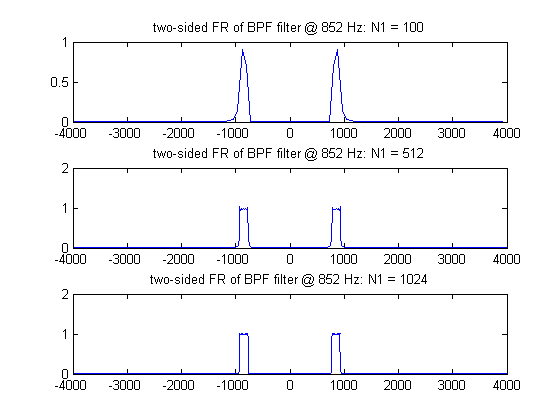
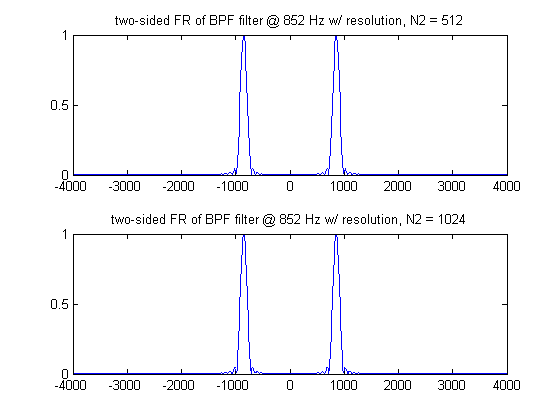
lab04sub complete

diff --git a/lab/lab04sub.md b/lab/lab04sub.md
@@ -45,8 +45,8 @@ Note that in the plot command, `plot(fv, abs(H852))` would yield a plot from $$0
 
 So, to see the two-sided plot, one must subtract $$\tfrac{F_s}{2}$$  (in this case, $$4000$$) and “`fftshift`” the values being plotted — in essence, this is picking up the irght hand side of the plot and putting it onto the left.
 ```matlab
-% ----- EXERCISE 1: ----- 
-% see the change of filter's shape as N1 becomes larger
+% ----- EXERCISE 1: -----
+% changes in resolution (N2) of FR 
 
 fs = 8000;
 fc = 852;
@@ -54,46 +54,35 @@ w = 82;
 Wn = [fc-w, fc+w]/(fs/2);
 
 N1 = 100;
-b852a = fir1(  N1, Wn, rectwin(N1+1)  );
-[H852a, fv1] = freqz(  b852a, 1, N1, fs,'whole'  );
+b852 = fir1(  N1, Wn, rectwin(N1+1)  );
 
 N2a = 512;
-b852b = fir1(  N2a, Wn, rectwin(N2a+1)  );
-[H852b, fv2] = freqz(  b852b, 1, N2a, fs,'whole'  );
+[H852a, fv1] = freqz(  b852, 1, N2a, fs,'whole'  );
 
 N2b = 1024;
-b852c = fir1(  N2b, Wn, rectwin(N2b+1)  );
-[H852c, fv3] = freqz(  b852c, 1, N2b, fs,'whole'  );
+[H852b, fv2] = freqz(  b852, 1, N2b, fs,'whole'  );
 
-title1 = 'one-sided FR of BPF filter @ 852 Hz: N1 = ';
-title2 = 'two-sided FR of BPF filter @ 852 Hz: N1 = ';
+title1 = 'one-sided FR of BPF filter @ 852 Hz w/ resolution, N2 = ';
+title2 = 'two-sided FR of BPF filter @ 852 Hz w/ resolution, N2 = ';
 
-% ----- one-sided plot -----
+% ----- one-sided plot ----- 
 figure();
-subplot(3,1,1);
-plot(fv1, abs(H852a));
-title(  horzcat(title1, num2str(N1))  );
-
-subplot(3,1,2);
-plot(  fv2, abs(H852b)  );
+subplot(2,1,1);
+plot(  fv1, abs(H852a)  );
 title(  horzcat(title1, num2str(N2a))  );
 
-subplot(3,1,3);
-plot(  fv3, abs(H852c)  );
+subplot(2,1,2);
+plot(  fv2, abs(H852b)  );
 title(  horzcat(title1, num2str(N2b))  );
 
-% ----- two-sided plot -----
+% ----- two-sided plot ----- 
 figure();
-subplot(3,1,1);
+subplot(2,1,1);
 plot(  fv1-(fs/2), fftshift(abs(H852a))  );
-title(  horzcat(title2, num2str(N1))  );
-
-subplot(3,1,2);
-plot(  fv2-(fs/2), fftshift(abs(H852b))  );
 title(  horzcat(title2, num2str(N2a)));
 
-subplot(3,1,3);
-plot(  fv3-(fs/2), fftshift(abs(H852c))  );
+subplot(2,1,2);
+plot(  fv2-(fs/2), fftshift(abs(H852b))  );
 title(  horzcat(title2, num2str(N2b))  );
 ```
 
@@ -106,7 +95,7 @@ title(  horzcat(title2, num2str(N2b))  );
 ### 3.
 Use `N1 = 100` and `w = 80` to compute `b852` and then plot the frequency response as described above. It is your choice to plot the one-sided or the two-sided plot — but, you should understand and be comfortable with both. This should produce a filter with $$101$$ coefficients that tries to make a filter that will pass frequencies between $$772\:\text{Hz}$$ and $$932\:\text{Hz}$$. Observe the plot of the frequency response and see how well this filter works.
 ```matlab
-% ----- EXERCISE 2: ----- 
+% ----- EXERCISE 2: -----
 % Change in filter based on the limited amount of sample points.
 
 fs = 8000;
@@ -115,15 +104,15 @@ w = 80;
 Wn = [fc-w, fc+w]/(fs/2);
 
 N1 = 100;
+N2 = 1024;      % resolution of FR
 b852 = fir1(  N1, Wn, rectwin(N1+1)  );
-[H852, fv] = freqz(  b852, 1, N1, fs, 'whole'  );
+[H852, fv] = freqz(  b852, 1, N2, fs, 'whole'  );
 
 title3 = 'one-sided FR of BPF filter @ 852 Hz';
 title4 = 'two-sided FR of BPF filter @ 852 Hz';
 title5 = 'two-sided FR of BPF filter @ 852 Hz (zoomed-in)';
 
 % ----- plot frequency response -----
-
 figure();
 subplot(3,1,1);
 plot(fv, abs(H852));
@@ -135,35 +124,38 @@ plot(fv-(fs/2), fftshift(abs(H852)));
 title(title4);
 xlabel('f [Hz]'); ylabel('amplitude');
 
-
 subplot(3,1,3);
 plot(fv-(fs/2), fftshift(abs(H852)));
 title(title5);
-axis([700 1150 0 1]);
+axis([670 1100 0 1]);
 
-% linear interpolation: apprximate magnitude for
-% (1) 852 Hz,
-% (2) 772 Hz, and
+% linear interpolation: apprximate magnitude for 
+% (1) 852 Hz, 
+% (2) 772 Hz, and 
 % (3) 932 Hz
 
-a720 = fftshift(abs(H852(10)));  % 720 Hz
-a800 = fftshift(abs(H852(11)));  % 800 Hz
-a880 = fftshift(abs(H852(12)));  % 880 Hz
-a960 = fftshift(abs(H852(13)));  % 960 Hz
+a765 = fftshift(abs(H852(99)));  % 765 Hz
+a773 = fftshift(abs(H852(100)));  % 773 Hz
+a851 = fftshift(abs(H852(110)));  % 851 Hz
+a859 = fftshift(abs(H852(111)));  % 859 Hz
+a929 = fftshift(abs(H852(120)));  % 929 Hz
+a937 = fftshift(abs(H852(121)));  % 937 Hz
 
-a852 = a800 + (a880 - a800) * (852-800)/(880-800)
-a772 = a720 + (a800 - a720) * (772-720)/(800-720)
-a932 = a880 + (a960 - a880) * (932-880)/(960-880)
+a852 = a851 + (a859 - a851) * (852-851)/(859-851)
+a772 = a765 + (a773 - a765) * (772-765)/(773-765)
+a932 = a929 + (a937 - a929) * (932-929)/(937-929)
+
+% Approximately 985 and 720 hits close to 0
 ```
 
 __output__:
 ```
 a852 
-	= 0.8253
+	= 0.9991
 a772 
-	= 0.4479
+	= 0.3877
 a932 
-	= 0.3971
+	= 0.3766
 ```
 
 ![fig02](lab04sub/lab04sub-fig02.png)
@@ -176,10 +168,10 @@ You should see a narrow band centered at $$852\:\text{Hz}$$ on frequency axis th
 Use the magnify feature in the figure window and display the small region with a nonzero frequency response in detail. What is the value of the frequency response at approximately $$852\:\text{Hz}$$? At approximately $$772\:\text{Hz}$$?, at approximately $$932\:\text{Hz}$$? At what frequency below $$852\:\text{Hz}$$ does the frequency response first go to zero? At what frequency above $$852\:\text{Hz}$$ does the frequency response first go to zero?
 
 #### A3(b)
-- @ $$852\:\text{Hz}$$, the amplitude is approximately 0.8253
-- @ $$772\:\text{Hz}$$, the amplitude is approximately 0.4479
-- @ $$932\:\text{Hz}$$, the amplitude is approximately 0.3971
-- Examining the plot, @ $$960\:\text{Hz}$$ and $$720\:\text{Hz}$$ is the location where it will first go to zero.
+- @ $$852\:\text{Hz}$$, the amplitude is approximately 0.9991
+- @ $$772\:\text{Hz}$$, the amplitude is approximately 0.3877
+- @ $$932\:\text{Hz}$$, the amplitude is approximately 0.3766
+- Examining the plot, @ $$985\:\text{Hz}$$ and $$720\:\text{Hz}$$ is the location where it will first go to zero.
 
 ------
 
@@ -199,9 +191,11 @@ Compute `b770` and `H770` in the same way and plot both `H770` and `H852` on the
 ```matlab
 % ----- EXERCISE 3: -----
 % Examiniation of overlapping filter @ different frequencies.
+
 fs = 8000;
 fc1 = 852;
 fc2 = 770;
+
 
 N1 = 50;
 w = 30;
@@ -211,15 +205,15 @@ b852 = fir1(  N1, Wn1, rectwin(N1+1)  );
 Wn2 = [fc2-w, fc2+w]/(fs/2);
 b770 = fir1(  N1, Wn2, rectwin(N1+1)  );
 
-[H852, fv] = freqz(  b852, 1, N1, fs,  'whole'  ) ;
-[H770, fv] = freqz(  b770, 1, N1, fs,  'whole'  ) ;
+N2 = 1024;
+[H852, fv] = freqz(  b852, 1, N2, fs,  'whole'  ) ;
+[H770, fv] = freqz(  b770, 1, N2, fs,  'whole'  ) ;
 
 title1 = 'one-sided FR of BPF filter @ 852 Hz (r) and 770 Hz (b) : N1 = ';
 title2 = 'two-sided FR of BPF filter @ 852 Hz (r) and 770 Hz (b) : N1 = ';
-width = ' w = ';
+width = ' w = '; 
 
-% ----- plot the frequency response -----
-
+% ----- plot the frequency response ----- 
 figure();
 subplot(2,1,1)
 plot(  fv, abs(H852), '-r', fv, abs(H770), '-b'  );
@@ -252,13 +246,13 @@ Try to reduce the overlap by repeating Step 4 with the following three sets of v
 __NOTE__: Just reducing w will not necessarily narrow the width of your filter. As `w` is decreased, `N1` may have to be increased to attain the sharper frequency definition.
 
 ```matlab
-% ----- EXERCISE 4: ----- 
+% ----- EXERCISE 4: -----
 % Remove the overlap
 fs = 8000;
 fc1 = 852;
 fc2 = 770;
 
-% ----- test1: -----
+% ----- test1: ----- 
 N1 = 100;
 w1 = 40;
 
@@ -266,19 +260,21 @@ Wn1 = [fc1-w1, fc1+w1]/(fs/2);
 Wn2 = [fc2-w1, fc2+w1]/(fs/2);
 b852 = fir1(  N1, Wn1, rectwin(N1+1)  );
 b770 = fir1(  N1, Wn2, rectwin(N1+1)  );
-[H852, fv] = freqz(  b852, 1, N1, fs,  'whole'  ) ;
-[H770, fv] = freqz(  b770, 1, N1, fs,  'whole'  ) ;
 
-title2 = 'two-sided FR of BPF filter @ 852 Hz (r) and 941 Hz (b) : N1 = ';
-width = ' w = ';
+N2 = 1024;
+[H852, fv] = freqz(  b852, 1, N2, fs,  'whole'  ) ;
+[H770, fv] = freqz(  b770, 1, N2, fs,  'whole'  ) ;
 
-% ----- test1: plot the frequency response -----
+title2 = 'zoomed in: two-sided FR of BPF filter @ 852 Hz (r) and 941 Hz (b) : N1 = ';
+width = ' w = '; 
+
+% ----- test1: plot the frequency response ----- 
 subplot(3,1,1)
 plot(  fv-(fs/2), fftshift(abs(H852)), '-r',...
     fv-(fs/2), fftshift(abs(H770)), '-b' );
 title(horzcat(title2, num2str(N1), width, num2str(w1)));
 xlabel('f [Hz]'); ylabel('Amplitude');
-
+axis([ 600 1100 0 1]);
 
 % ----- test2: reducing w by half -----
 N1 = 100;
@@ -288,33 +284,36 @@ Wn1 = [fc1-w1, fc1+w1]/(fs/2);
 Wn2 = [fc2-w1, fc2+w1]/(fs/2);
 b852 = fir1(  N1, Wn1, rectwin(N1+1)  );
 b770 = fir1(  N1, Wn2, rectwin(N1+1)  );
-[H852, fv] = freqz(  b852, 1, N1, fs,  'whole'  ) ;
-[H770, fv] = freqz(  b770, 1, N1, fs,  'whole'  ) ;
 
-% ----- test2: plot the frequency response -----
+[H852, fv] = freqz(  b852, 1, N2, fs,  'whole'  ) ;
+[H770, fv] = freqz(  b770, 1, N2, fs,  'whole'  ) ;
+
+% ----- test2: plot the frequency response ----- 
 subplot(3,1,2)
 plot(  fv-(fs/2), fftshift(abs(H852)), '-r',...
     fv-(fs/2), fftshift(abs(H770)), '-b' );
 title(horzcat(title2, num2str(N1), width, num2str(w1)));
 xlabel('f [Hz]'); ylabel('Amplitude');
-
+axis([ 600 1100 0 1]);
 
 % ----- test3: double N1 -----
 N1 = 200;
 w1 = 20;
+
 Wn1 = [fc1-w1, fc1+w1]/(fs/2);
 Wn2 = [fc2-w1, fc2+w1]/(fs/2);
 b852 = fir1(  N1, Wn1, rectwin(N1+1)  );
 b770 = fir1(  N1, Wn2, rectwin(N1+1)  );
-[H852, fv] = freqz(  b852, 1, N1, fs,  'whole'  ) ;
-[H770, fv] = freqz(  b770, 1, N1, fs,  'whole'  ) ;
+[H852, fv] = freqz(  b852, 1, N2, fs,  'whole'  ) ;
+[H770, fv] = freqz(  b770, 1, N2, fs,  'whole'  ) ;
 
-% ----- test3: plot the frequency response -----
+% ----- test3: plot the frequency response ----- 
 subplot(3,1,3)
 plot(  fv-(fs/2), fftshift(abs(H852)), '-r',...
     fv-(fs/2), fftshift(abs(H770)), '-b' );
 title(horzcat(title2, num2str(N1), width, num2str(w1)));
 xlabel('f [Hz]'); ylabel('Amplitude');
+axis([ 600 1100 0 1]);
 ```
 
 ![fig04](lab04sub/lab04sub-fig04.png)
@@ -334,35 +333,55 @@ What is the effect of reducing `w`? What is the effect of increasing `N1`?
 Chose a set of values for `N1` and `w` that you think would be the best to use in filters that would reliably distinguish the row 3 tone from the row 2 tone and justify your choice. How long is your filter as a fraction of the minimum time between digits of $$45\:\text{ms}$$? Your choice does not have to be one of the four suggested in this Prelab.
 
 ```matlab
------ EXERCISE 5: ----- Find the best N1 and w for case above
+% ----- EXERCISE 5: -----
+% Find the best N1 and w for the least overlapping.
 fs = 8000;
 fc1 = 852;
 fc2 = 770;
 
-% ----- test1: -----
-N1 = 1024;
-w1 = 20;
+% ----- test1: ----- 
+N1 = 200;
+w1 = 10;
 
 Wn1 = [fc1-w1, fc1+w1]/(fs/2);
 Wn2 = [fc2-w1, fc2+w1]/(fs/2);
 b852 = fir1(  N1, Wn1, rectwin(N1+1)  );
 b770 = fir1(  N1, Wn2, rectwin(N1+1)  );
-[H852, fv] = freqz(  b852, 1, N1, fs,  'whole'  ) ;
-[H770, fv] = freqz(  b770, 1, N1, fs,  'whole'  ) ;
 
-title2 = 'zoomed in: two-sided FR of BPF filter @ 852 Hz (r) and 941 Hz (b) : N1 =
-width = ' w = ';
+N2 = 1024;
+[H852, fv] = freqz(  b852, 1, N2, fs,  'whole'  ) ;
+[H770, fv] = freqz(  b770, 1, N2, fs,  'whole'  ) ;
 
-% ----- test1: plot the frequency response -----
+title2 = 'zoomed in: two-sided FR of BPF filter @ 852 Hz (r) and 941 Hz (b) : N1 = ';
+width = ' w = '; 
+
+% ----- test1: plot the frequency response ----- 
 figure();
 plot(  fv-(fs/2), fftshift(abs(H852)), '-r',...
     fv-(fs/2), fftshift(abs(H770)), '-b' );
-axis([400 1100 0 1]);
+axis([600 1100 0 1]);
 title(horzcat(title2, num2str(N1), width, num2str(w1)));
-xlabel('f [Hz]'); ylabel('Amplitude');  
+xlabel('f [Hz]'); ylabel('Amplitude');
 ```
 
 ![fig05](lab04sub/lab04sub-fig05.png)
+
+Given
+$$
+f_s=8000\:\left[\tfrac{\text{sample}}{\text{sec}}\right]
+$$
+We can find the tone signal's time by doing the following
+$$
+\begin{align*}
+t_\text{tone}&=\frac{N1}{f_s}\\
+&=\frac{200}{8000}\\
+&=0.025
+\end{align*}
+$$
+Doing so, the ratio between tone time to quiet time must be less than one. So,
+$$
+\frac{t_\text{tone}}{t_\text{quiet}}=\frac{0.025}{0.045}=0.55
+$$
 
 __For the Prelab, submit the answers to the questions, the plots and any Matlab scripts that you wrote.__
 

diff --git a/lect/lect07.md b/lect/lect07.md
@@ -47,7 +47,7 @@ $$
 - Two inequalities must be preserved:
 $$
 \begin{matrix}
--(n-1)\frac{F_T}{2}F_T\leq{f}_L\\
+-(n-1)\frac{F_T}{2}\leq{f}_L\\
 f_H\leq(n)\frac{F_T}{2}
 \end{matrix}
 $$
